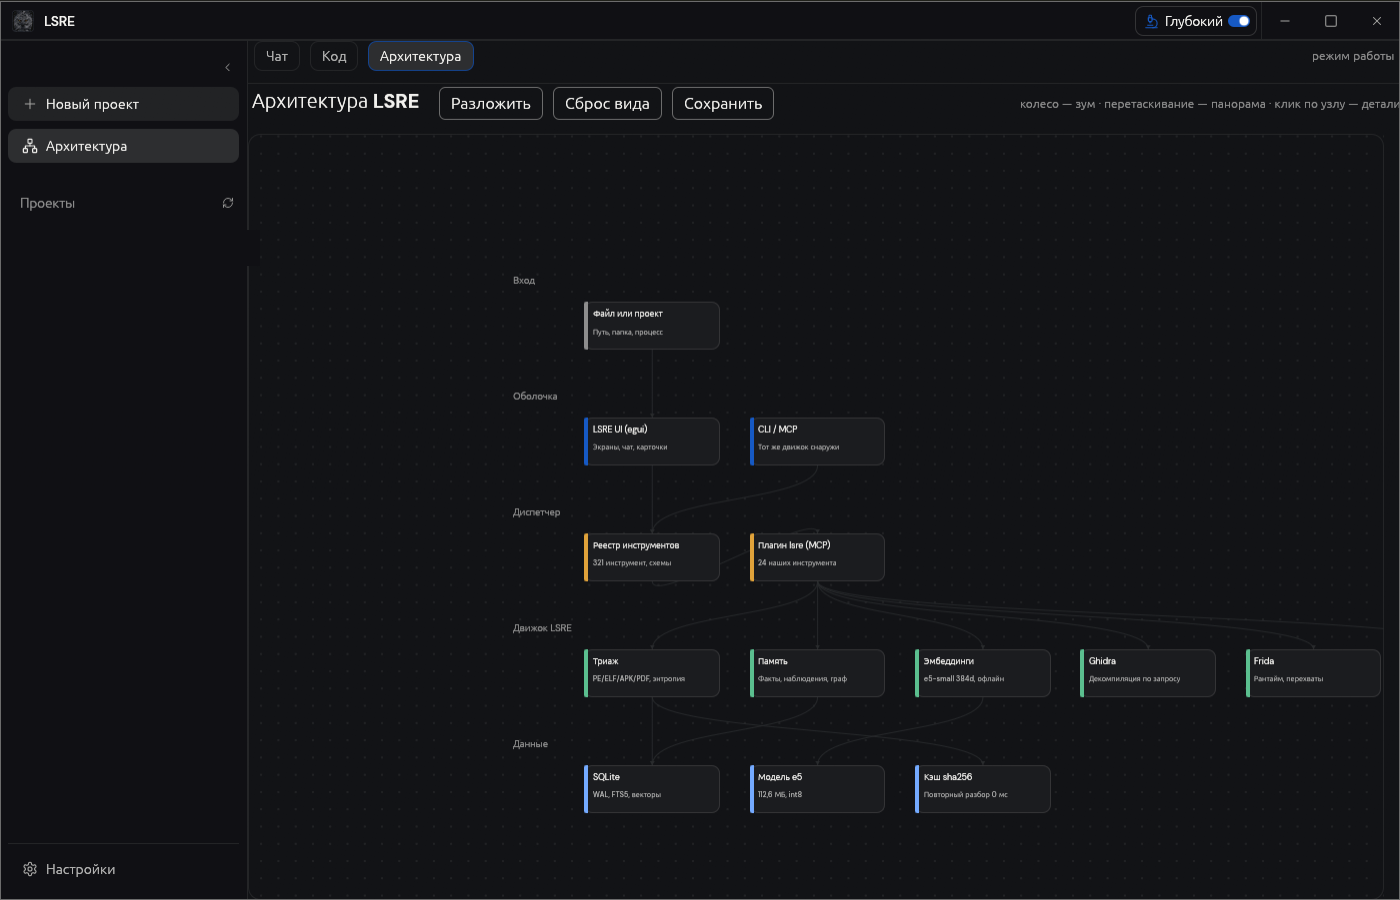
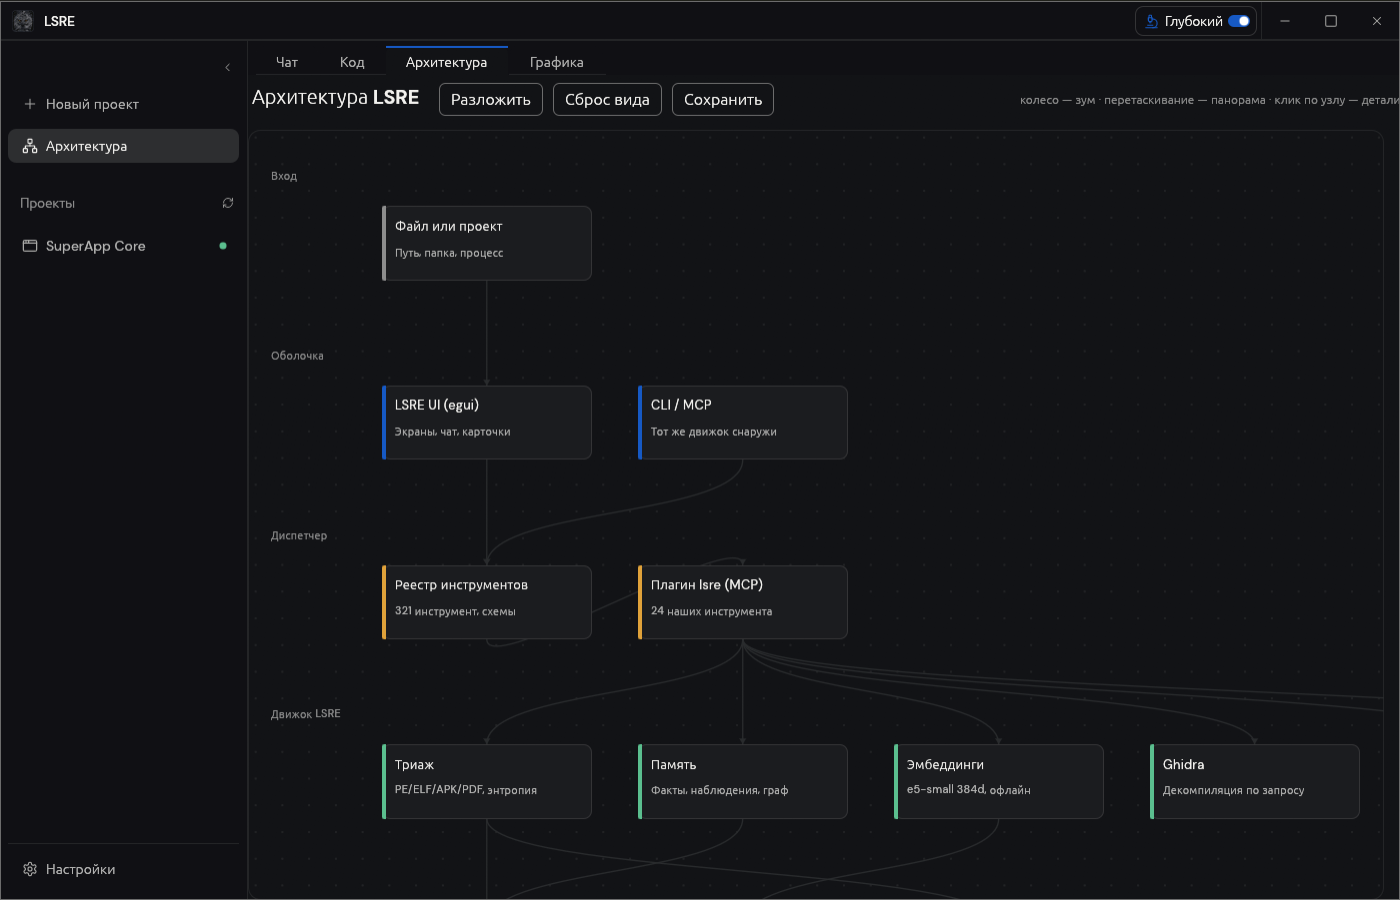
feat: лента-закладки и вкладка Графика (запуск FigCraft); обновлены скриншоты

diff --git a/README.md b/README.md
@@ -12,18 +12,21 @@
 
 ![Чат](docs/screenshots/chat.png)
 
-*Чат: стартовый экран — что разобрать, режим ИИ, лента «Чат · Код · Архитектура».*
+*Чат: проект SuperApp Core, лента-закладки «Чат · Код · Архитектура · Графика».*
 
 ![Код](docs/screenshots/code.png)
 
-*Код: список файлов проекта и просмотр содержимого (только чтение).*
+*Код: файлы проекта и просмотр содержимого (только чтение).*
 
 ![Архитектура](docs/screenshots/architecture.png)
 
 *Архитектура: иерархия сверху вниз — родители выше, дети ниже; связи и подписи слоёв.*
 
+![Графика](docs/screenshots/graphics.png)
+
+*Графика: вкладка запуска FigCraft — открытого редактора интерфейсов (запускается рядом с LSRE).*
+
 > На снимках скрыты имена проектов и локальные пути.
----
 
 ## Что скачать
 

diff --git a/docs/CHANGES.md b/docs/CHANGES.md
@@ -16,6 +16,10 @@
 - **Имена для плагинов:** `LSRE_PLAIN_NAMES=1` — без двойного префикса `lsre_lsre_*`.
 
 ### Оболочка (форк)
+- **Лента режимов в стиле браузера**: четыре закладки «Чат · Код · Архитектура · Графика».
+- **Вкладка «Графика»**: запуск FigCraft v0.17.0 (открытый редактор интерфейсов, MIT) из портативной
+  папки `figcraft\`; без логотипов и внешних иконок. Встраивание FigCraft как встроенного редактора —
+  отдельный проект (другой движок, сотни тысяч строк Rust).
 - Брендинг LSRE: окно, приветствие, About, ресурсы exe, каталог данных `lsre`.
 - Векторная иконка-гарпия (SVG) + многоразмерный `.ico`; белый фон углов убран.
 - `clean_room.rs`: инструменты `lsre_*` разрешены в Clean room.
